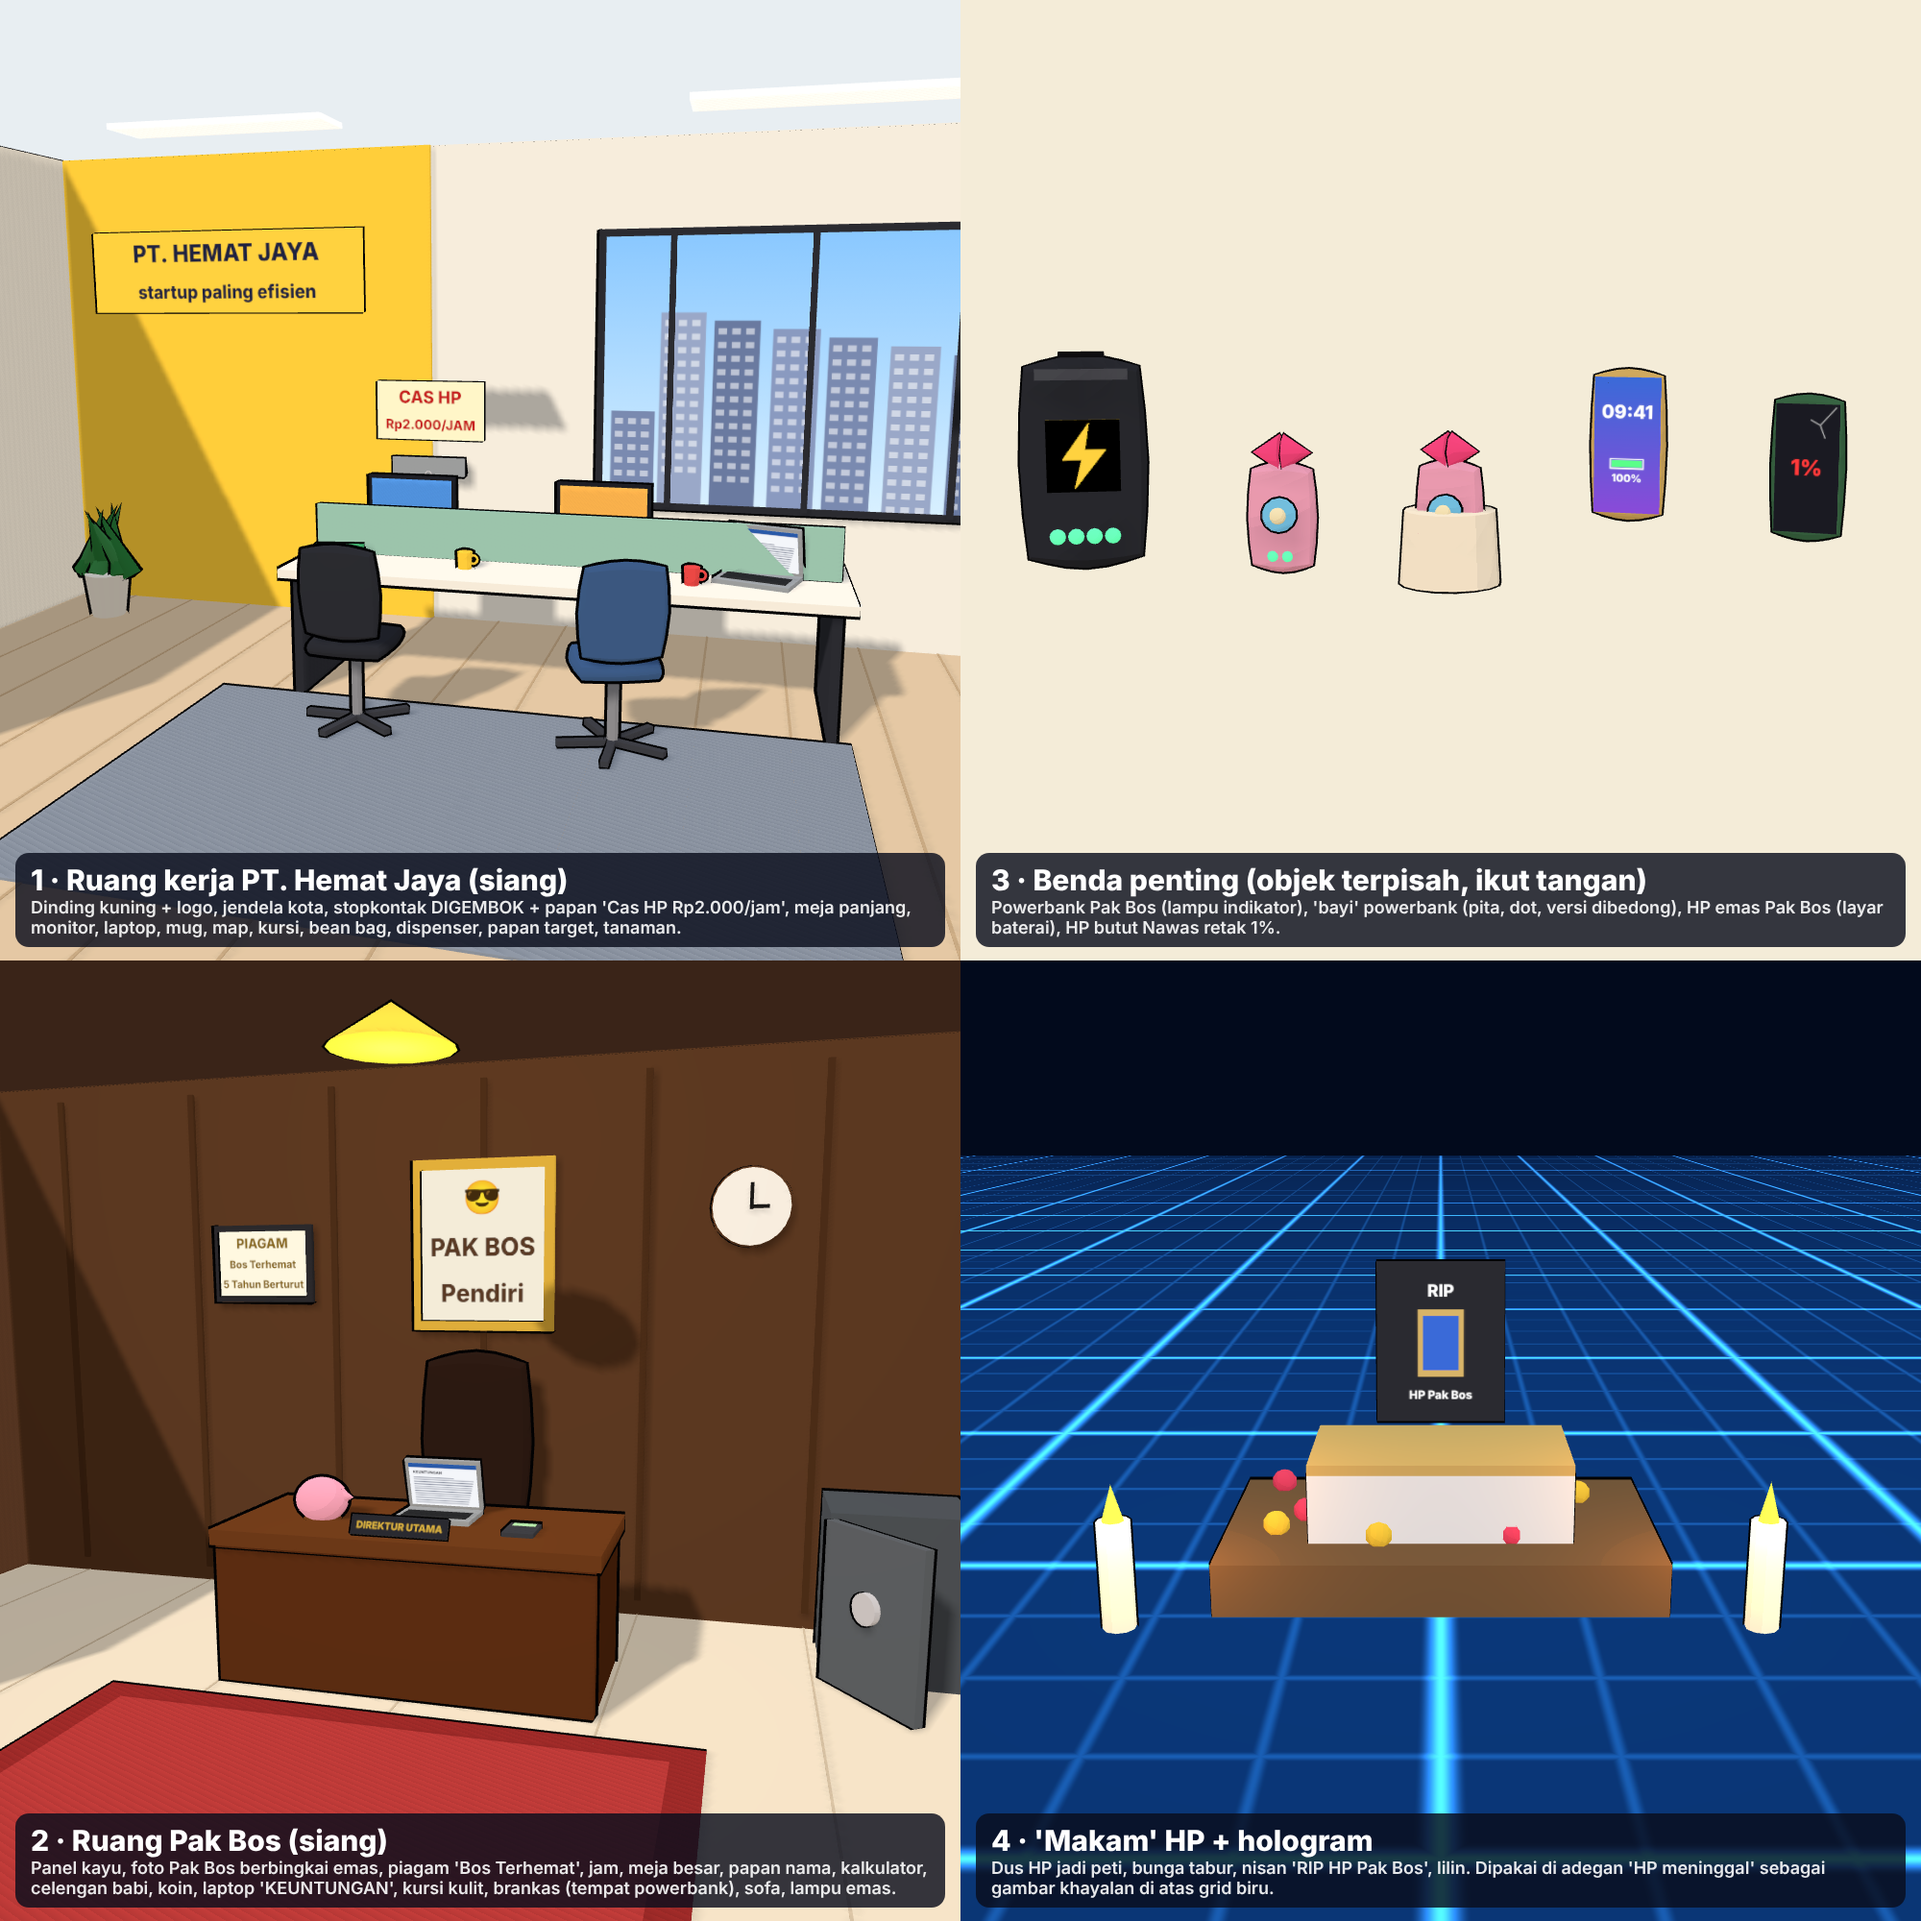
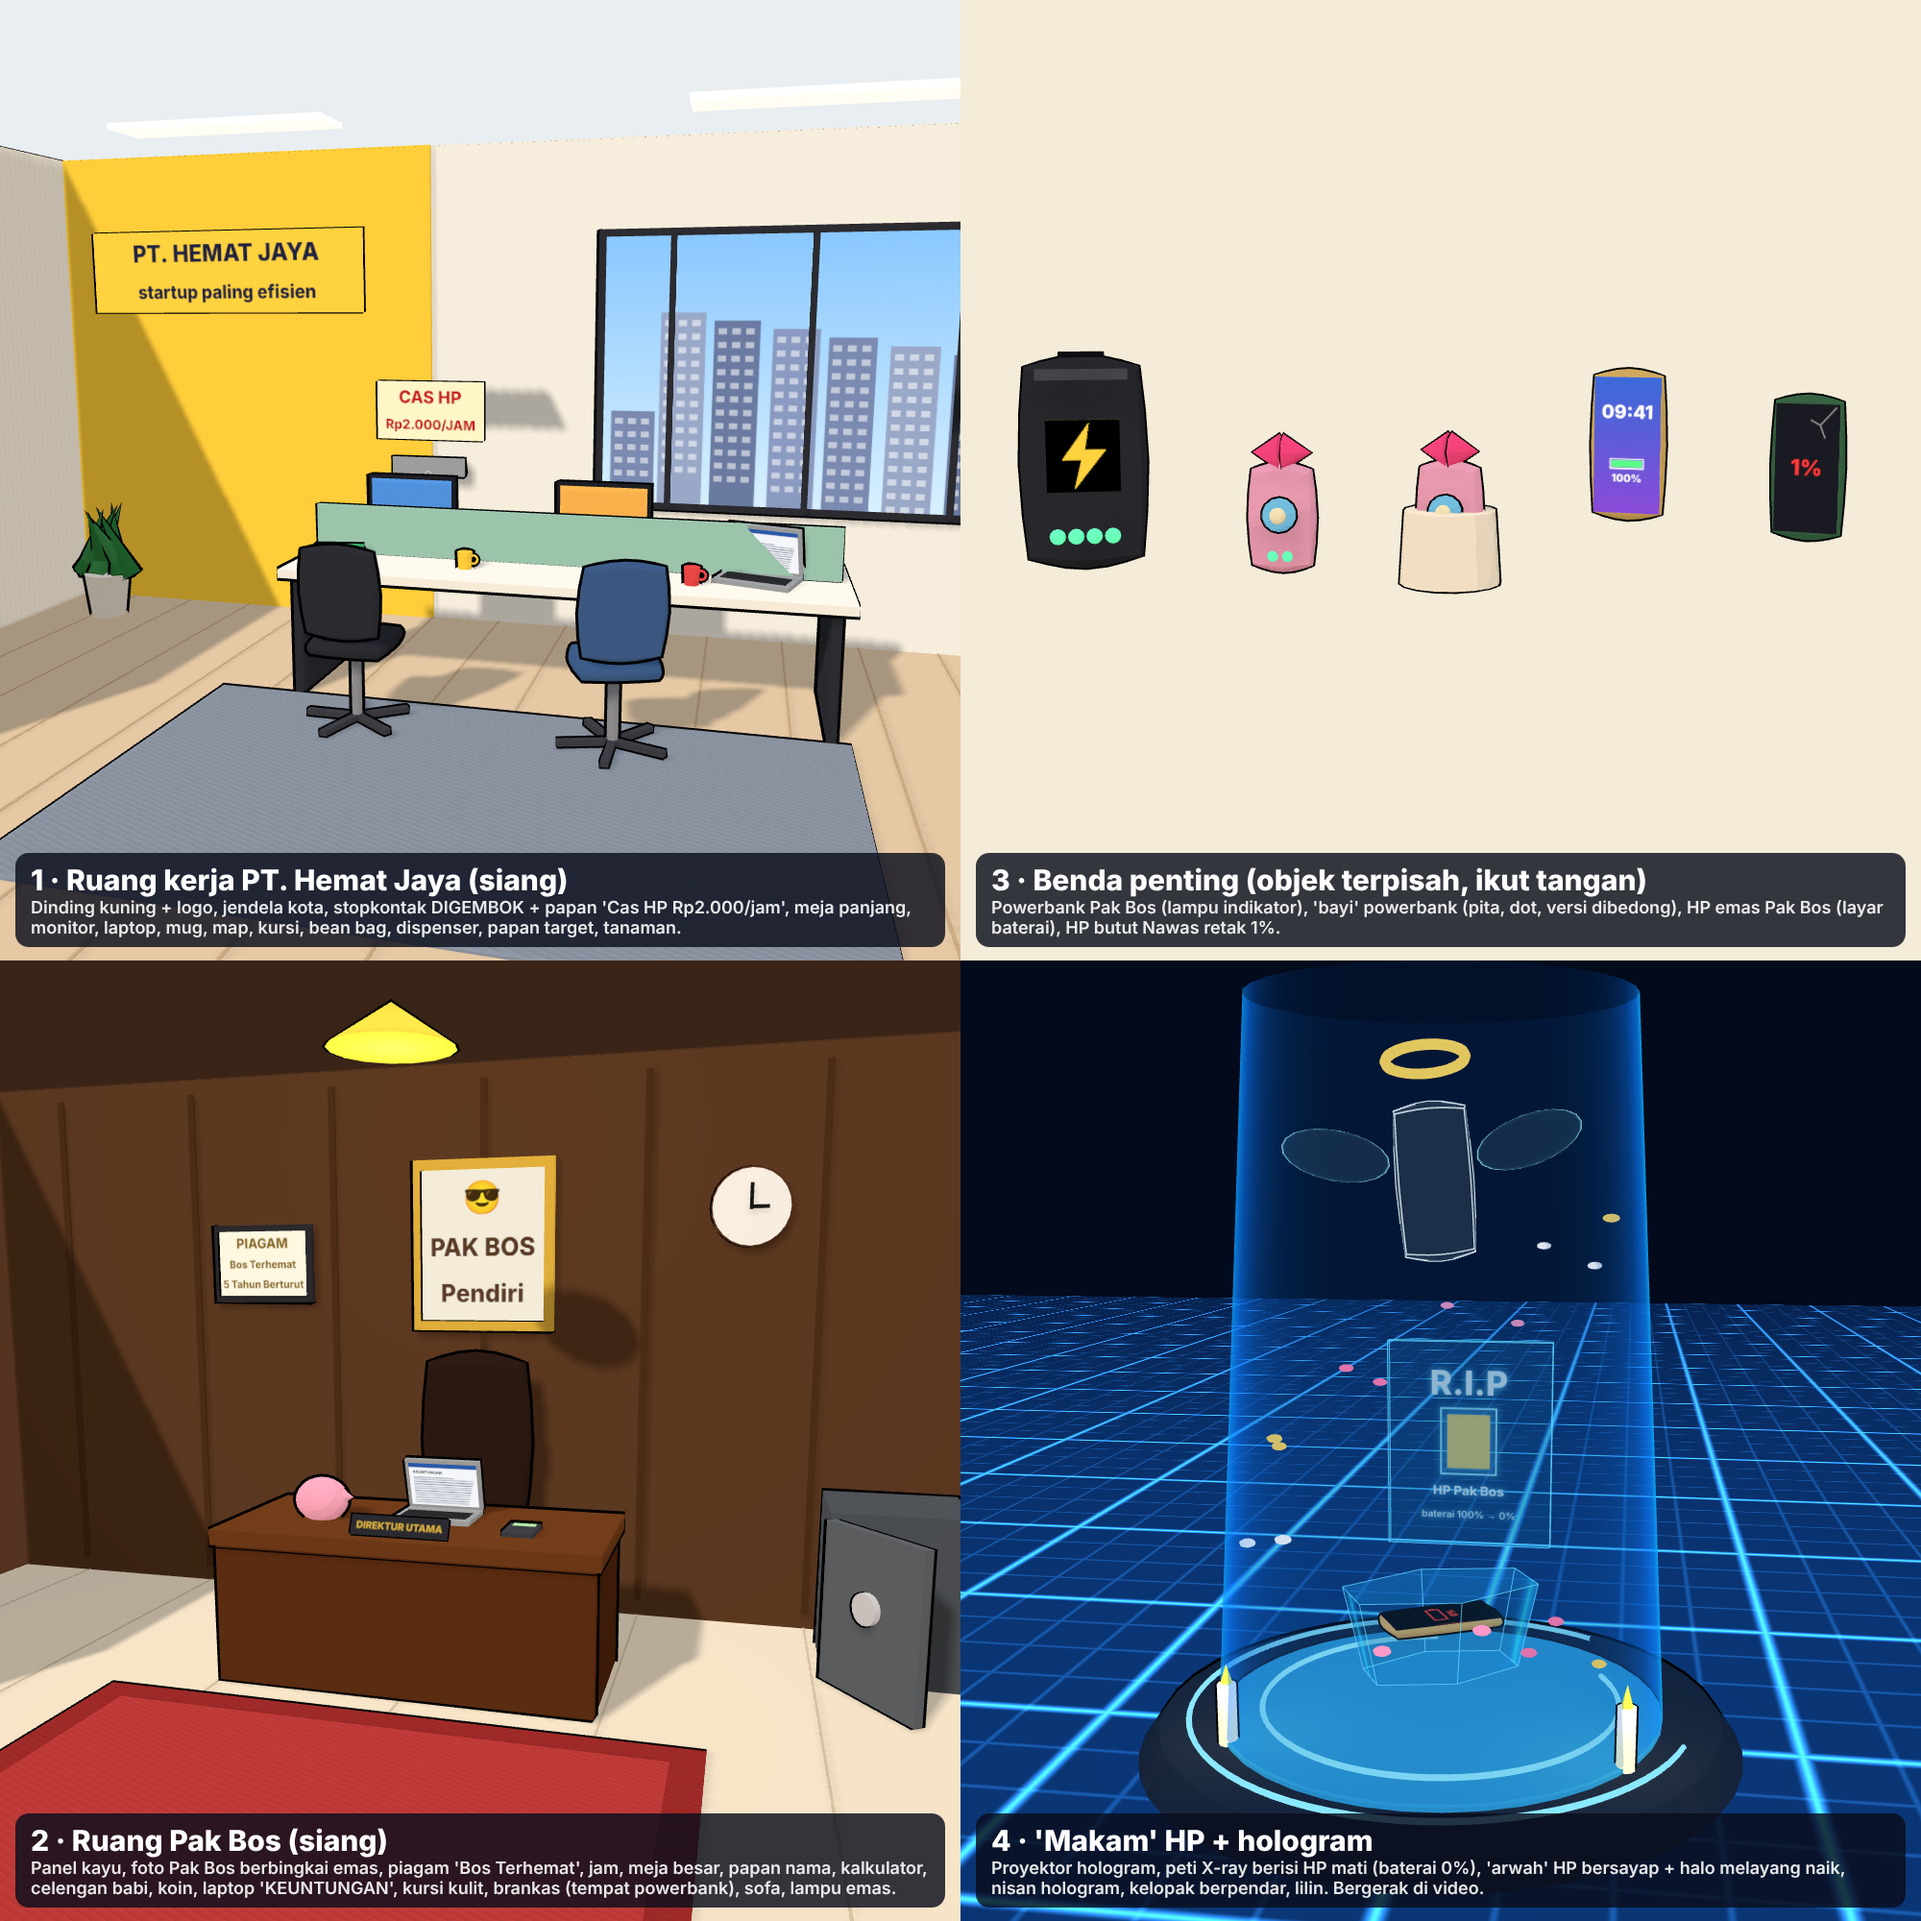
Powerbank Melahirkan: makam HP jadi hologram X-ray (proyektor, peti tembus pandang, arwah HP bersayap, nisan hologram)
Claude-Session: https://claude.ai/code/session_01GCndARCBNVFNUuT35pzLTr

Changed region(s): [[0.496, 0.496, 1.0, 1.0]]

diff --git a/src/three/objectsNawas.tsx b/src/three/objectsNawas.tsx
@@ -1,6 +1,6 @@
 // Properti "Powerbank Melahirkan" (Kang Nawas zaman now): kantor startup, ruang Pak Bos, benda yang dipegang.
 import React from "react";
-import { CanvasPlane, G, Limb, T, Vec3 } from "./toon";
+import { CanvasPlane, G, Limb, T, Vec3, XR } from "./toon";
 import { Laptop, Mug } from "./objectsKelompok";
 
 /* ================= benda kecil (objek terpisah, mengikuti tangan) ================= */
@@ -459,3 +459,123 @@ export const BossRoomSet: React.FC<{ safeOpen?: number }> = ({ safeOpen = 0 }) =
     <hemisphereLight args={["#fff0d8", "#5a3a2a", 0.6]} />
   </group>
 );
+
+/* ================= hologram "makam HP" (gaya X-ray Perang Emu) ================= */
+/** t = waktu (detik) untuk animasi: arwah HP naik-turun, lingkaran proyektor berputar, kelopak melayang */
+export const HoloPhoneGrave: React.FC<{ position?: Vec3; scale?: number; t?: number }> = ({ position, scale = 1, t = 0 }) => {
+  const float = Math.sin(t * 2) * 0.04;
+  return (
+    <group position={position} scale={scale}>
+      {/* alas proyektor hologram: piringan gelap + cincin bercahaya berlapis */}
+      <T g={G.cyl(0.78, 0.84, 0.08, 40)} c="#16263e" position={[0, 0.04, 0]} />
+      <T g={G.cyl(0.62, 0.62, 0.012, 40)} c="#1a6a9a" emissive="#2a9ad8" ei={0.5} position={[0, 0.086, 0]} o={false} />
+      {[0.7, 0.5].map((r, i) => (
+        <mesh key={r} position={[0, 0.1 + i * 0.01, 0]} rotation={[Math.PI / 2, 0, t * (i ? -0.8 : 0.5)]}>
+          <torusGeometry args={[r, 0.008, 6, 64, Math.PI * 1.6]} />
+          <meshBasicMaterial color="#8ae8ff" toneMapped={false} />
+        </mesh>
+      ))}
+      {/* sorot cahaya proyektor ke atas */}
+      <XR g={G.cyl(0.5, 0.62, 1.9, 32, true)} position={[0, 1.05, 0]} color="#3ab8ff" edges={false} />
+
+      {/* peti = dus HP versi X-ray (heksagonal seperti peti) */}
+      <group position={[0, 0.32, 0]} rotation={[0, 0.5, 0]}>
+        <XR g={G.cyl(0.3, 0.24, 0.24, 6)} scale={[1, 1, 0.55]} color="#5fd4ff" />
+        {/* HP di dalam peti: layar mati, baterai 0% merah */}
+        <group position={[0, 0.02, 0]} rotation={[-Math.PI / 2, 0, Math.PI / 2]}>
+          <T g={G.rbox(0.17, 0.34, 0.025, 0.3)} c="#d8b468" o={2} />
+          <CanvasPlane
+            w={0.15}
+            h={0.31}
+            px={160}
+            toon={false}
+            o={false}
+            position={[0, 0, 0.014]}
+            drawKey="holoDead"
+            draw={(c, W, H) => {
+              c.fillStyle = "#06080c";
+              c.fillRect(0, 0, W, H);
+              const bw = W * 0.56,
+                bh = H * 0.12,
+                bx = (W - bw) / 2,
+                by = H * 0.4;
+              c.strokeStyle = "#ff3a3a";
+              c.lineWidth = 5;
+              c.strokeRect(bx, by, bw, bh);
+              c.fillStyle = "#ff3a3a";
+              c.fillRect(bx + bw, by + bh * 0.3, 7, bh * 0.4);
+              c.font = `900 ${W * 0.2}px Inter, sans-serif`;
+              c.textAlign = "center";
+              c.fillText("0%", W / 2, by + bh + H * 0.12);
+            }}
+          />
+        </group>
+      </group>
+
+      {/* "arwah" HP melayang naik: HP transparan, sayap & lingkaran halo emas */}
+      <group position={[0, 1.5 + float, 0.1]} rotation={[0, Math.sin(t) * 0.25, 0.08]}>
+        <XR g={G.rbox(0.2, 0.4, 0.03, 0.3)} color="#e8f8ff" />
+        <mesh position={[0, 0.3, 0]} rotation={[Math.PI / 2 - 0.25, 0, 0]}>
+          <torusGeometry args={[0.1, 0.014, 8, 32]} />
+          <meshBasicMaterial color="#ffd85a" toneMapped={false} />
+        </mesh>
+        {[-1, 1].map((sd) => (
+          <group key={sd} position={[sd * 0.15, 0.06, -0.02]} rotation={[0, 0, sd * (0.35 + Math.sin(t * 6) * 0.2)]}>
+            <XR g={G.sph(0.14, 16, 10)} position={[sd * 0.1, 0, 0]} scale={[1, 0.45, 0.15]} color="#bfefff" />
+          </group>
+        ))}
+      </group>
+
+      {/* nisan hologram melayang di belakang */}
+      <group position={[0, 0.72, -0.62]} scale={0.85}>
+        <XR g={G.box(0.62, 0.78, 0.04)} color="#5fd4ff" />
+        <CanvasPlane
+          w={0.58}
+          h={0.74}
+          px={300}
+          toon={false}
+          o={false}
+          alpha
+          position={[0, 0, 0.03]}
+          drawKey="holoNisan"
+          draw={(c, W, H) => {
+            c.clearRect(0, 0, W, H);
+            c.textAlign = "center";
+            c.shadowColor = "#5fd4ff";
+            c.shadowBlur = 14;
+            c.fillStyle = "#e8fbff";
+            c.font = `900 ${W * 0.22}px Inter, sans-serif`;
+            c.fillText("R.I.P", W / 2, H * 0.24);
+            c.strokeStyle = "#9ae8ff";
+            c.lineWidth = 4;
+            c.strokeRect(W * 0.32, H * 0.31, W * 0.36, H * 0.34);
+            c.fillStyle = "rgba(255,216,90,0.9)";
+            c.fillRect(W * 0.36, H * 0.34, W * 0.28, H * 0.28);
+            c.fillStyle = "#e8fbff";
+            c.font = `800 ${W * 0.085}px Inter, sans-serif`;
+            c.fillText("HP Pak Bos", W / 2, H * 0.76);
+            c.font = `600 ${W * 0.065}px Inter, sans-serif`;
+            c.fillText("baterai 100% → 0%", W / 2, H * 0.88);
+          }}
+        />
+      </group>
+
+      {/* kelopak bunga melayang & berpendar */}
+      {Array.from({ length: 16 }).map((_, i) => {
+        const a = i * 2.4 + t * 0.6;
+        const r = 0.35 + (i % 4) * 0.1;
+        const y = 0.2 + (((i * 0.37 + t * 0.25) % 1) * 1.3);
+        return (
+          <mesh key={i} position={[Math.cos(a) * r, y, Math.sin(a) * r]} scale={[1, 0.5, 1]}>
+            <sphereGeometry args={[0.022, 8, 6]} />
+            <meshBasicMaterial color={["#ff7ab0", "#ffd85a", "#ffffff", "#ff9ac8"][i % 4]} toneMapped={false} />
+          </mesh>
+        );
+      })}
+
+      {/* lilin di kiri-kanan alas */}
+      <Candle position={[-0.52, 0.08, 0.32]} scale={1.4} flicker={t * 9} />
+      <Candle position={[0.52, 0.08, 0.32]} scale={1.4} flicker={t * 9 + 2} />
+    </group>
+  );
+};

diff --git a/src/SheetNawas.tsx b/src/SheetNawas.tsx
@@ -3,8 +3,8 @@ import React from "react";
 import { AbsoluteFill } from "remotion";
 import { ThreeCanvas } from "@remotion/three";
 import { CameraRig } from "./three/objects";
-import { Bean3, Bean3Params, BlueGrid, Expr3, ToonRes, Vec3 } from "./three/toon";
-import { BabyPowerbank, BossPhone, BossRoomSet, Candle, NawasPhone, OpenOfficeSet, PhoneGrave, Powerbank } from "./three/objectsNawas";
+import { Bean3, Bean3Params, BlueGrid, Expr3, ToonRes, ToonSky, Vec3 } from "./three/toon";
+import { BabyPowerbank, BossPhone, BossRoomSet, Candle, HoloPhoneGrave, NawasPhone, OpenOfficeSet, Powerbank } from "./three/objectsNawas";
 
 export const NAWAS: Bean3Params = { body: "#2a8a5a", plaid: "#1e6a44", shirt: "#f4f0e4", pants: "#3a3a48", boots: "#6a4a32", glove: "#f1e2d0", sleeve: "#2a8a5a", hat: "peci", hatColor: "#1a1a20", hatBand: "#2a2a34", backpack: "#3a3a3a" };
 export const BOS: Bean3Params = { body: "#2a2a3a", shirt: "#ffffff", tie: "#c82a2a", pants: "#2a2a3a", boots: "#1a1a1a", glove: "#f1dcc4", sleeve: "#2a2a3a", hair: "#2a2420", mustache: true, hat: "none" };
@@ -136,15 +136,14 @@ export const SheetNawasProps: React.FC = () => (
       <Cap t="3 · Benda penting (objek terpisah, ikut tangan)" d="Powerbank Pak Bos (lampu indikator), 'bayi' powerbank (pita, dot, versi dibedong), HP emas Pak Bos (layar baterai), HP butut Nawas retak 1%." />
     </div>
     <div style={{ position: "relative" }}>
-      <PropShot cam={[0, 0.9, 2.4]} look={[0, 0.25, 0]} fov={40} bg="#020a1c">
+      <PropShot cam={[0.5, 1.5, 3.3]} look={[0, 0.85, 0]} fov={42} bg="#020a1c">
         <hemisphereLight args={["#bfe4ff", "#123060", 1.6]} />
         <directionalLight position={[3, 6, 5]} intensity={1.4} />
+        <ToonSky top="#020814" horizon="#0a2a5a" />
         <BlueGrid size={30} />
-        <PhoneGrave position={[0, 0, 0]} scale={1.6} />
-        <Candle position={[-0.55, 0, 0.3]} scale={1.6} />
-        <Candle position={[0.55, 0, 0.3]} scale={1.6} flicker={2} />
+        <HoloPhoneGrave t={0.6} />
       </PropShot>
-      <Cap t="4 · 'Makam' HP + hologram" d="Dus HP jadi peti, bunga tabur, nisan 'RIP HP Pak Bos', lilin. Dipakai di adegan 'HP meninggal' sebagai gambar khayalan di atas grid biru." />
+      <Cap t="4 · 'Makam' HP + hologram" d="Proyektor hologram, peti X-ray berisi HP mati (baterai 0%), 'arwah' HP bersayap + halo melayang naik, nisan hologram, kelopak berpendar, lilin. Bergerak di video." />
     </div>
   </AbsoluteFill>
 );

diff --git a/src/three/toon.tsx b/src/three/toon.tsx
@@ -817,10 +817,11 @@ export const useCanvasTex = (w: number, h: number, key: string, draw: (ctx: Canv
   return slot.tex;
 };
 /** bidang bertekstur kanvas (kertas, papan nama, peta, koran) */
-export const CanvasPlane: React.FC<{ w: number; h: number; px?: number; drawKey: string; draw: (ctx: CanvasRenderingContext2D, w: number, h: number) => void; position?: Vec3; rotation?: Vec3; toon?: boolean; o?: number | false }> = ({
+export const CanvasPlane: React.FC<{ w: number; h: number; px?: number; drawKey: string; draw: (ctx: CanvasRenderingContext2D, w: number, h: number) => void; position?: Vec3; rotation?: Vec3; toon?: boolean; o?: number | false; alpha?: boolean }> = ({
   w,
   h,
   px = 512,
+  alpha = false,
   drawKey,
   draw,
   position,
@@ -835,7 +836,7 @@ export const CanvasPlane: React.FC<{ w: number; h: number; px?: number; drawKey:
   return (
     <group position={position} rotation={rotation}>
       <mesh geometry={g} receiveShadow>
-        {toon ? <meshToonMaterial map={tex} gradientMap={toonGradient()} /> : <meshBasicMaterial map={tex} toneMapped={false} />}
+        {toon ? <meshToonMaterial map={tex} gradientMap={toonGradient()} /> : <meshBasicMaterial map={tex} toneMapped={false} transparent={alpha} depthWrite={!alpha} />}
       </mesh>
       {o ? <mesh geometry={hullOf(g)} material={outlineMat(o)} /> : null}
     </group>

diff --git a/exports/riset/nawas-rancangan.md b/exports/riset/nawas-rancangan.md
@@ -6,7 +6,7 @@ Kisah ini cerita rakyat (domain publik). Versi ini: kantor startup, powerbank, d
 
 - Durasi target: ±50 detik, 1080×1920, gaya 3D explainer seperti Perang Emu (toon + garis tepi, latar padat properti).
 - Suara: VoxCPM2 (`scripts/voice_vox.py`), narator + suara tokoh (Nawas santai/licik, Pak Bos tegas/membentak).
-- Lokasi: (1) ruang kerja PT. Hemat Jaya, (2) ruang Pak Bos, (3) hologram grid biru untuk khayalan & layar terbelah.
+- Lokasi: (1) ruang kerja PT. Hemat Jaya, (2) ruang Pak Bos, (3) hologram X-ray di atas grid biru (makam HP: proyektor, peti X-ray, arwah HP bersayap + halo, nisan hologram) untuk khayalan & layar terbelah.
 
 ## Naskah + adegan + gerakan (action beats)
 
